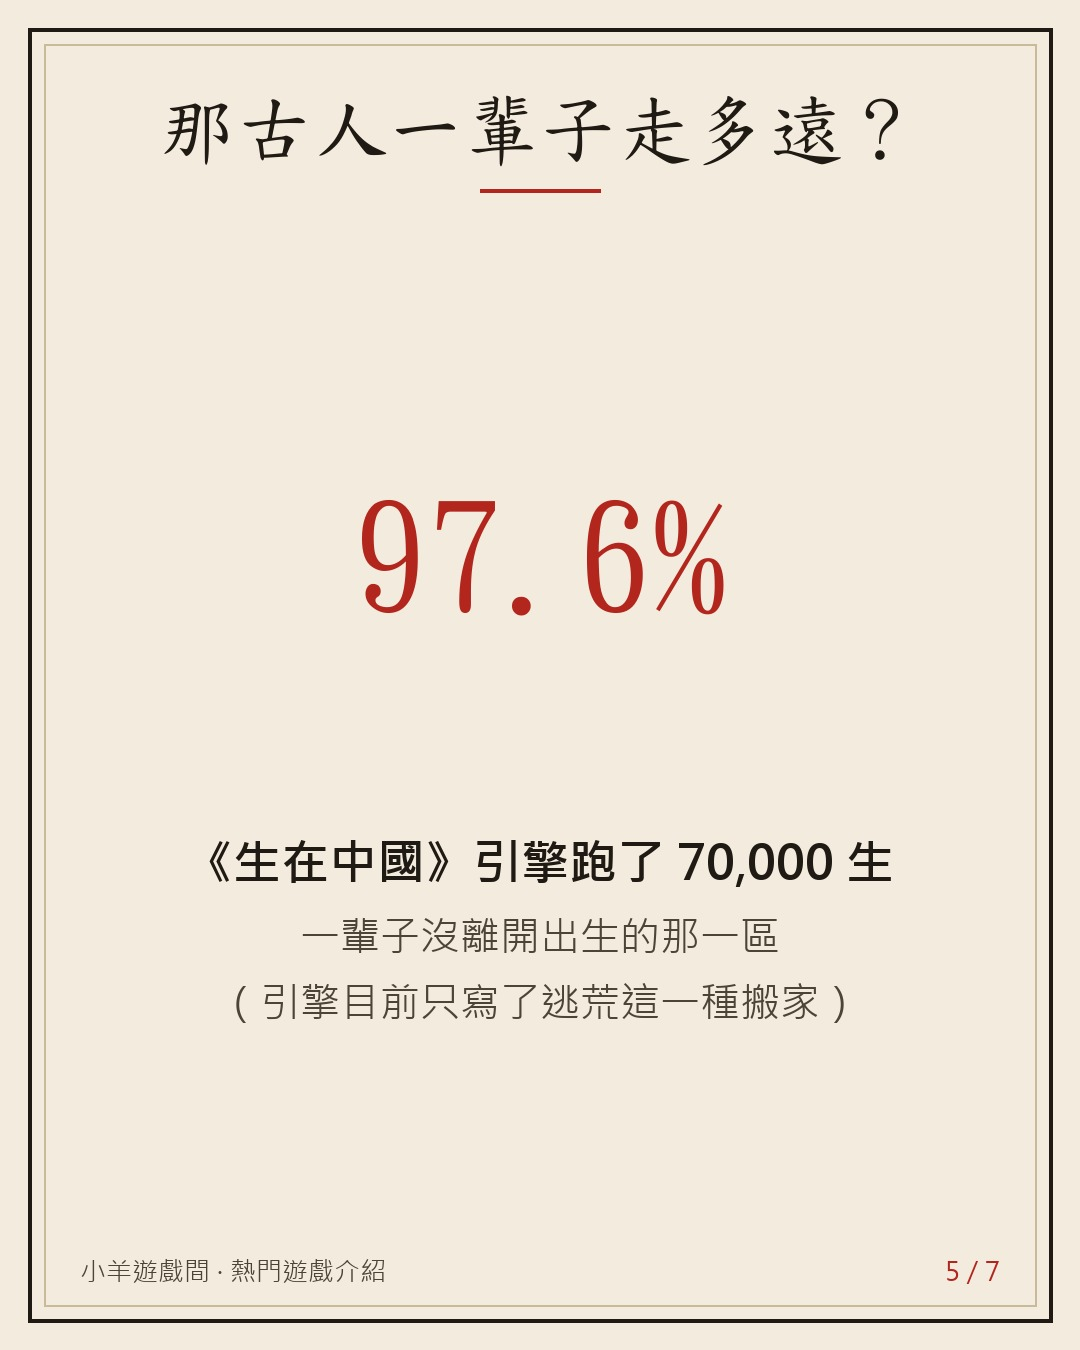
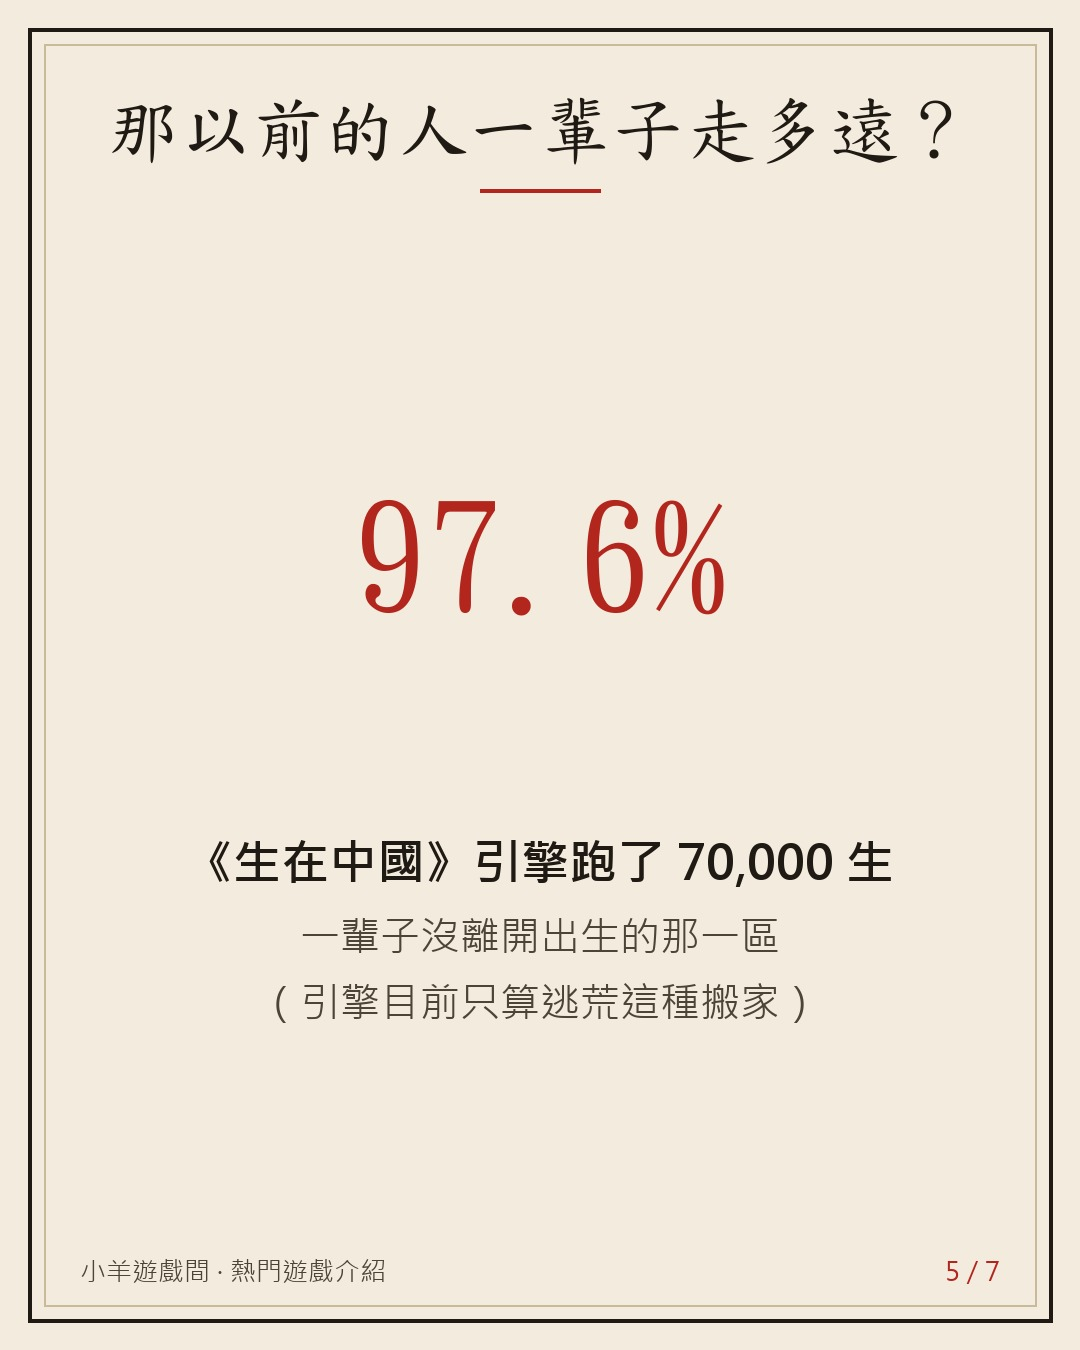
vault backup: 2026-10-24 22:43:26

Changed region(s): [[0.0917, 0.0622, 0.8861, 0.1244], [0.2444, 0.7156, 0.4889, 0.7778], [0.6111, 0.7156, 0.7639, 0.7778]]

diff --git a/Projects/auto promotion/2026-10-25.md b/Projects/auto promotion/2026-10-25.md
@@ -25,3 +25,6 @@
 | 13:31 | promo-producer | 進度 | 選題：熱門遊戲介紹《Pikmin Bloom》（DailyView 9/25–10/24 台灣手遊聲量第 2）；橋接引擎數字：35 個時期 7 萬生 97.6% 一輩子沒離開出生那一區 |  |
 | 13:33 | promo-producer | 進度 | 貼文 #2《台灣人最近都在種花？我去查了 Pikmin Bloom》初稿與 7 張卡完成，送 judge 打磨 |  |
 | 13:36 | manual | 發文 | IG：生在中國開發日記輪播 6 張＋連結留言；之後切回 gui.chang.shi（小羊指示） | https://www.instagram.com/p/De5988gG01w/ |
+| 13:38 | promo-producer | 進度 | 貼文 #2 打磨：第 1 回 8.0、第 2 回 7.9（修飾品說法、標明楊子明是遊戲人物、補結尾），送第 3 回 |  |
+| 13:40 | promo-producer | 進度 | 貼文 #2 第 3 回 8.0；補上楊子明晚年轉折（大都歸明、鄰居都從別處來），送第 4 回（最後一回） |  |
+| 13:43 | promo-producer | 完成 | 貼文 #2《大花苗 10,000 步，他走了約 186 萬步》（Pikmin Bloom × 生在中國）四回合 judge 8.0/8.0/8.0/8.0 未達 8.5 → 退回（posts/2.md，7 張卡在 posts/2/）；第 4 回建議已套用待小羊看。存貨：分享卡 4、生在中國 Reel 1、貼文 popular 0/devnote 0、鬼唱詩 0 |  |
